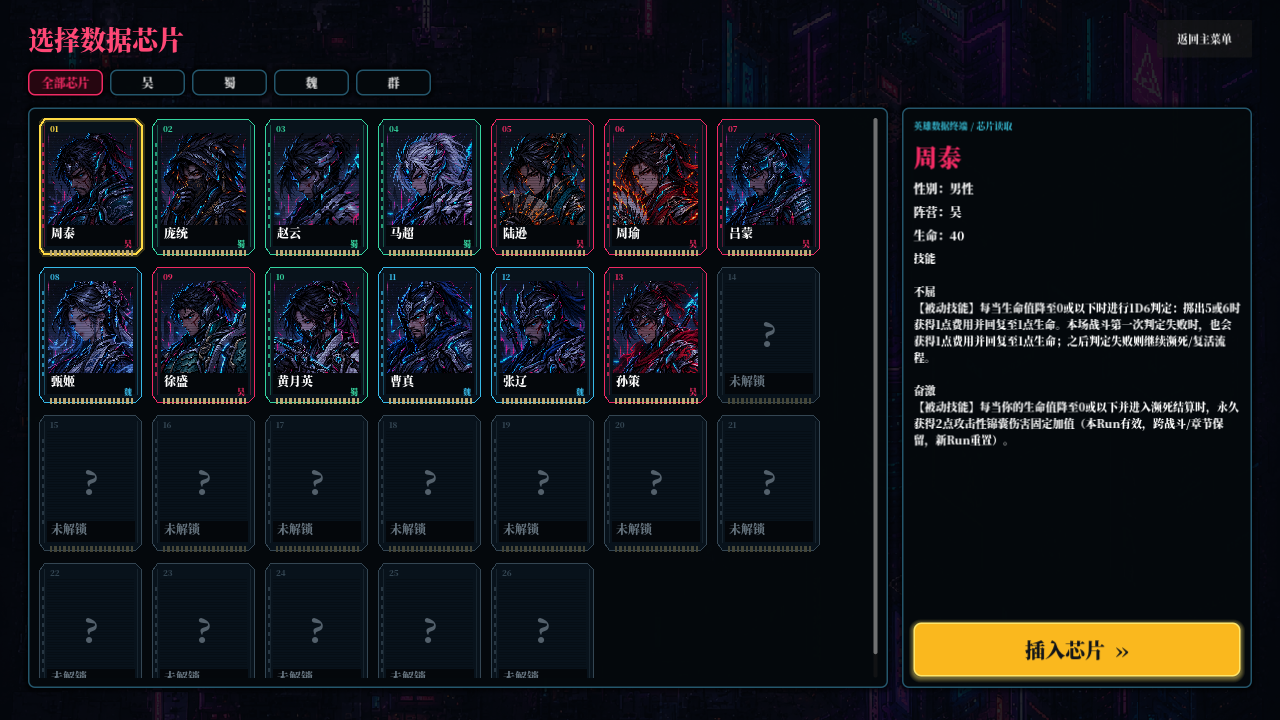
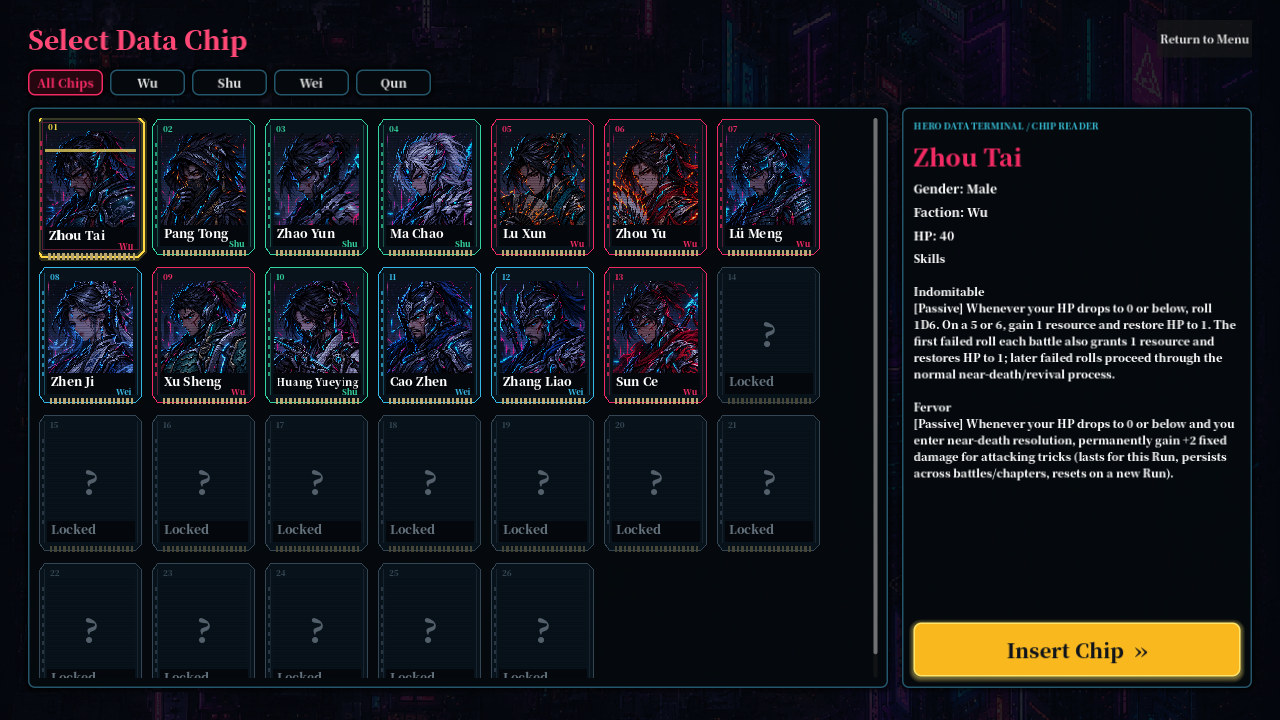
Show English runtime gameplay in portfolio README

diff --git a/Scripts/Tests/InitialFateVisualRegression.cs b/Scripts/Tests/InitialFateVisualRegression.cs
@@ -1,0 +1,46 @@
+using Godot;
+using System;
+using System.Collections.Generic;
+using System.Linq;
+using System.Reflection;
+
+public partial class InitialFateVisualRegression : Node
+{
+    public override async void _Ready()
+    {
+        try
+        {
+            Localization.Initialize();
+            Localization.SetLanguage("en_US");
+            var screen = new InitialEventController();
+            AddChild(screen);
+            screen.SetAnchorsAndOffsetsPreset(Control.LayoutPreset.FullRect);
+            await ToSignal(GetTree().CreateTimer(.5), SceneTreeTimer.SignalName.Timeout);
+            var optionsField = typeof(InitialEventController).GetField("_options", BindingFlags.Instance | BindingFlags.NonPublic)!;
+            var options = (List<InitialEventDefinition>)optionsField.GetValue(screen)!;
+            var ids = options.Select(o => o.Id).ToArray();
+            typeof(InitialEventController).GetMethod("RefreshLanguage", BindingFlags.Instance | BindingFlags.NonPublic)!.Invoke(screen, null);
+            await ToSignal(GetTree().CreateTimer(.2), SceneTreeTimer.SignalName.Timeout);
+            var buttons = screen.FindChildren("*", "Button", true, false).OfType<FateSelectButton>().ToArray();
+            if (buttons.Length != 3) throw new Exception("Expected three fate choices");
+            if (!ids.SequenceEqual(((List<InitialEventDefinition>)optionsField.GetValue(screen)!).Select(o => o.Id)))
+                throw new Exception("Refreshing presentation rerolled choices");
+            var background = screen.GetChildren().OfType<TextureRect>().Single();
+            if (background.Texture == null) throw new Exception("Missing background");
+            var row = screen.GetChildren().OfType<HBoxContainer>().Single();
+            if (row.GetGlobalRect().GetCenter().DistanceTo(screen.GetGlobalRect().GetCenter()) > 1f)
+                throw new Exception("Fate choices are not centered in the viewport");
+            foreach (var button in buttons)
+                if (!screen.GetGlobalRect().Encloses(button.GetGlobalRect())) throw new Exception("Choice button clipped");
+            if (DisplayServer.GetName() != "headless")
+            {
+                await ToSignal(RenderingServer.Singleton, RenderingServer.SignalName.FramePostDraw);
+                using var image = GetViewport().GetTexture().GetImage();
+                image.SavePng(ProjectSettings.GlobalizePath("res://Docs/Images/initial-fate.png"));
+            }
+            GD.Print("INITIAL_FATE_VISUAL_PASS");
+            GetTree().Quit();
+        }
+        catch (Exception exception) { GD.PushError(exception.ToString()); GetTree().Quit(1); }
+    }
+}

diff --git a/Scripts/Tests/PortfolioCombatCapture.cs b/Scripts/Tests/PortfolioCombatCapture.cs
@@ -1,0 +1,44 @@
+using Godot;
+using System;
+
+/// <summary>
+/// Captures the real battle scene for the repository portfolio.
+/// This scene intentionally uses the standard BattleManager setup rather than a mock UI.
+/// </summary>
+public partial class PortfolioCombatCapture : Node
+{
+    public override async void _Ready()
+    {
+        try
+        {
+            Localization.Initialize();
+            Localization.SetLanguage("en_US");
+
+            var battleScene = GD.Load<PackedScene>("res://Scenes/Battle.tscn")
+                ?? throw new InvalidOperationException("Battle scene could not be loaded.");
+            var battle = battleScene.Instantiate<BattleManager>();
+            // Debug setup supplies the ordinary gate-guard encounter used by the
+            // live battle scene; the capture itself shows the normal combat HUD.
+            battle.ConfigureDebugMode(CharacterIds.ZhaoYun);
+            AddChild(battle);
+            battle.SetAnchorsAndOffsetsPreset(Control.LayoutPreset.FullRect);
+
+            await ToSignal(GetTree().CreateTimer(1.0), SceneTreeTimer.SignalName.Timeout);
+            await ToSignal(RenderingServer.Singleton, RenderingServer.SignalName.FramePostDraw);
+
+            using var image = GetViewport().GetTexture().GetImage();
+            var outputPath = ProjectSettings.GlobalizePath("res://Docs/Images/combat-system.png");
+            var result = image.SavePng(outputPath);
+            if (result != Error.Ok)
+                throw new InvalidOperationException($"Unable to save combat screenshot: {result}");
+
+            GD.Print($"PORTFOLIO_COMBAT_CAPTURE_PASS path={outputPath}");
+            GetTree().Quit();
+        }
+        catch (Exception exception)
+        {
+            GD.PushError($"PORTFOLIO_COMBAT_CAPTURE_FAIL {exception}");
+            GetTree().Quit(1);
+        }
+    }
+}

diff --git a/Scripts/Tests/HeroChipVisualRegression.cs b/Scripts/Tests/HeroChipVisualRegression.cs
@@ -9,6 +9,7 @@ public partial class HeroChipVisualRegression : Node
         try
         {
             Localization.Initialize();
+            Localization.SetLanguage("en_US");
             var select = new CharacterSelectController();
             AddChild(select);
             select.SetAnchorsAndOffsetsPreset(Control.LayoutPreset.FullRect);
@@ -28,7 +29,7 @@ public partial class HeroChipVisualRegression : Node
             {
                 await ToSignal(RenderingServer.Singleton, RenderingServer.SignalName.FramePostDraw);
                 using var image = GetViewport().GetTexture().GetImage();
-                image.SavePng("/tmp/ftk-chips-preview.png");
+                image.SavePng(ProjectSettings.GlobalizePath("res://Docs/Images/character-selection.png"));
             }
             GD.Print($"HERO_CHIPS_PASS count={chips.Length} unlocked={chips.Count(c=>c.Unlocked)}");
             GetTree().Quit();

diff --git a/Docs/Images/README.md b/Docs/Images/README.md
@@ -4,11 +4,12 @@ These files are direct Godot viewport captures made while preparing the portfoli
 
 | File | Source scene | State shown |
 | --- | --- | --- |
+| [combat-system.png](combat-system.png) | [PortfolioCombatCapture](../../Scenes/Tests/PortfolioCombatCapture.tscn) | Instantiates the real `Battle.tscn` with the standard Gate Guard debug encounter. It shows the normal battle HUD and fixed action-card bar. |
 | [character-selection.png](character-selection.png) | [HeroChipVisualRegression](../../Scenes/Tests/HeroChipVisualRegression.tscn) | Instantiates the actual character-selection controller and selects the first unlocked chip. It checks unlocked-before-locked ordering. |
 | [initial-fate.png](initial-fate.png) | [InitialFateVisualRegression](../../Scenes/Tests/InitialFateVisualRegression.tscn) | Instantiates the actual initial-event controller and displays three normally generated options. It checks centering, bounds, and no reroll on text refresh. |
 
-Capture conditions: Godot 4.6.3 .NET, OpenGL compatibility rendering, 1280 × 720 output, Simplified Chinese. They are UI integration-test captures, not recorded gameplay sessions, completed runs, or historical 2.0 screenshots. The underlying visual assets include AI-generated art.
+Capture conditions: Godot 4.6.3 .NET, Metal rendering, 1280 × 720 output, and the in-game `en_US` localization table. These are direct runtime captures, not mockups, composites, or standalone background art. The battle capture uses a declared debug encounter so that the standard live battle UI has a reproducible opponent; it is not presented as a completed run. The underlying visual assets include AI-generated art.
 
-The production project normally uses its configured renderer; the compatibility renderer was used for these captures. Exact lighting can differ by renderer.
+The production project normally uses its configured renderer. Exact lighting can differ when captured on another renderer or platform.
 
-For the next captures, follow [SCREENSHOT_PLAN.md](../../SCREENSHOT_PLAN.md). Keep only a small selection in the landing page, and retain provenance whenever replacing an image.
+For the next captures, follow [SCREENSHOT_PLAN.md](../../SCREENSHOT_PLAN.md). Keep only a small selection in the landing page, prioritize English real-gameplay frames, and retain provenance whenever replacing an image.

diff --git a/README.md b/README.md
@@ -1,7 +1,3 @@
-<p align="center">
-  <img src="Assets/Backgrounds/MainMenu/main_menu_clean_plate.png" alt="Forgotten Three Kingdoms — a ruined cyberpunk Three Kingdoms city beneath a crimson moon" width="100%" />
-</p>
-
 <h1 align="center">Forgotten Three Kingdoms</h1>
 
 <p align="center">
@@ -27,16 +23,15 @@
 ## Gameplay showcase
 
 <p align="center">
-  <img src="Docs/Images/character-selection.png" alt="Runtime character-selection screen with faction-colored hero data chips" width="49%" />
-  <img src="Docs/Images/initial-fate.png" alt="Runtime initial-fate event screen with three selectable choices" width="49%" />
+  <img src="Docs/Images/combat-system.png" alt="English-language runtime battle screen showing a Gate Guard enemy and the fixed action-card bar" width="49%" />
+  <img src="Docs/Images/character-selection.png" alt="English-language runtime character-selection screen with faction-colored hero data chips" width="49%" />
 </p>
 
 <p align="center">
-  <img src="Assets/Backgrounds/Map/bg_map_chapter2_city.png" alt="Chapter 2 ruined cyberpunk city map artwork" width="49%" />
-  <img src="Assets/Backgrounds/Events/initial_fate_junkyard.png" alt="Initial-fate junkyard event background artwork" width="49%" />
+  <img src="Docs/Images/initial-fate.png" alt="English-language runtime initial-event screen with three selectable fate choices" width="74%" />
 </p>
 
-The first row contains direct runtime captures from the project’s Godot regression scenes; the second shows production map and event art used by the game. These visuals support a dark pixel-art / cyberpunk Three Kingdoms setting across hero selection, branching progression, and events. See [image provenance](Docs/Images/README.md) and [menu-art implementation notes](Assets/Backgrounds/MainMenu/README.md).
+Every image above is an unretouched **English-language capture of a real Godot runtime screen**: the standard battle scene, hero selection, and the initial-event flow. No standalone background or concept art is used as a gameplay showcase. See [image provenance](Docs/Images/README.md).
 
 ## About the game
 
